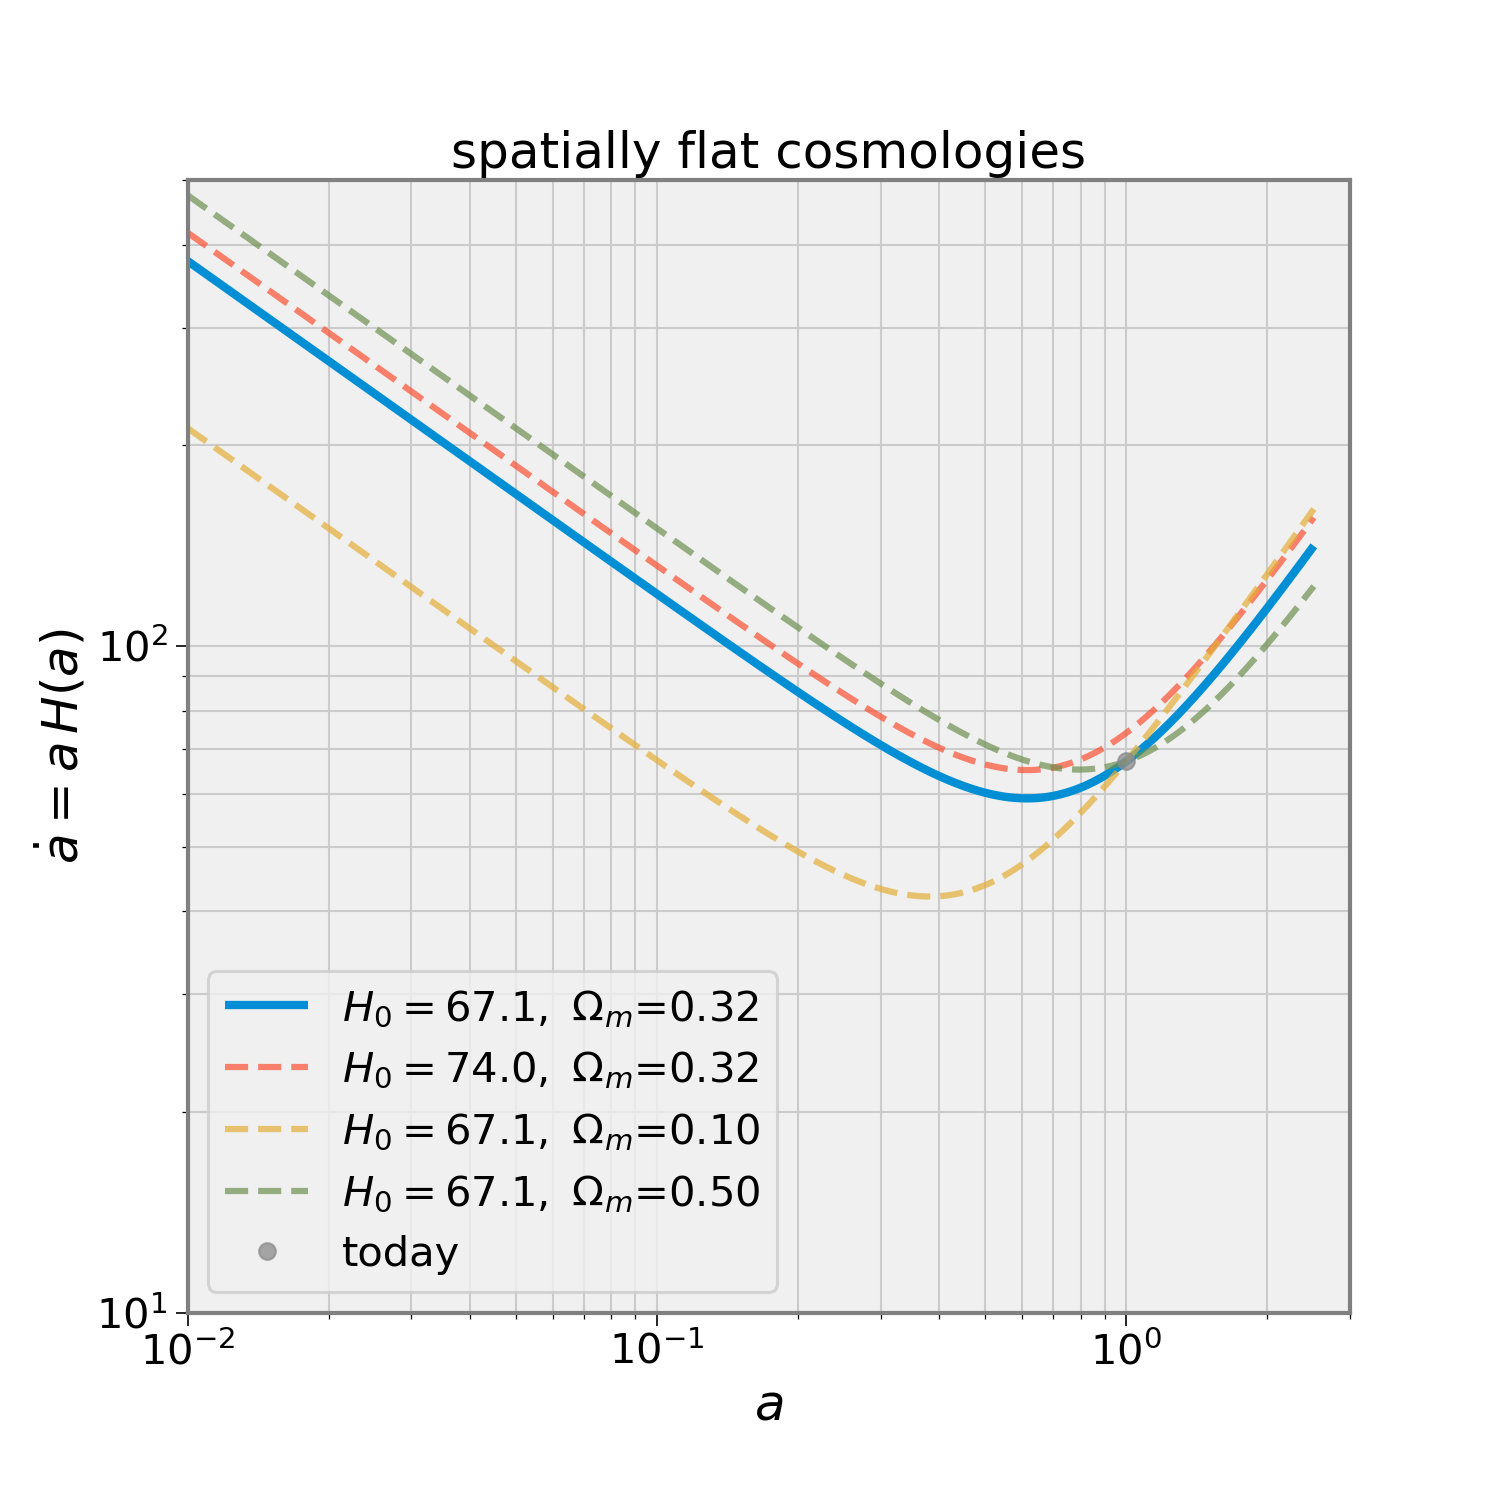
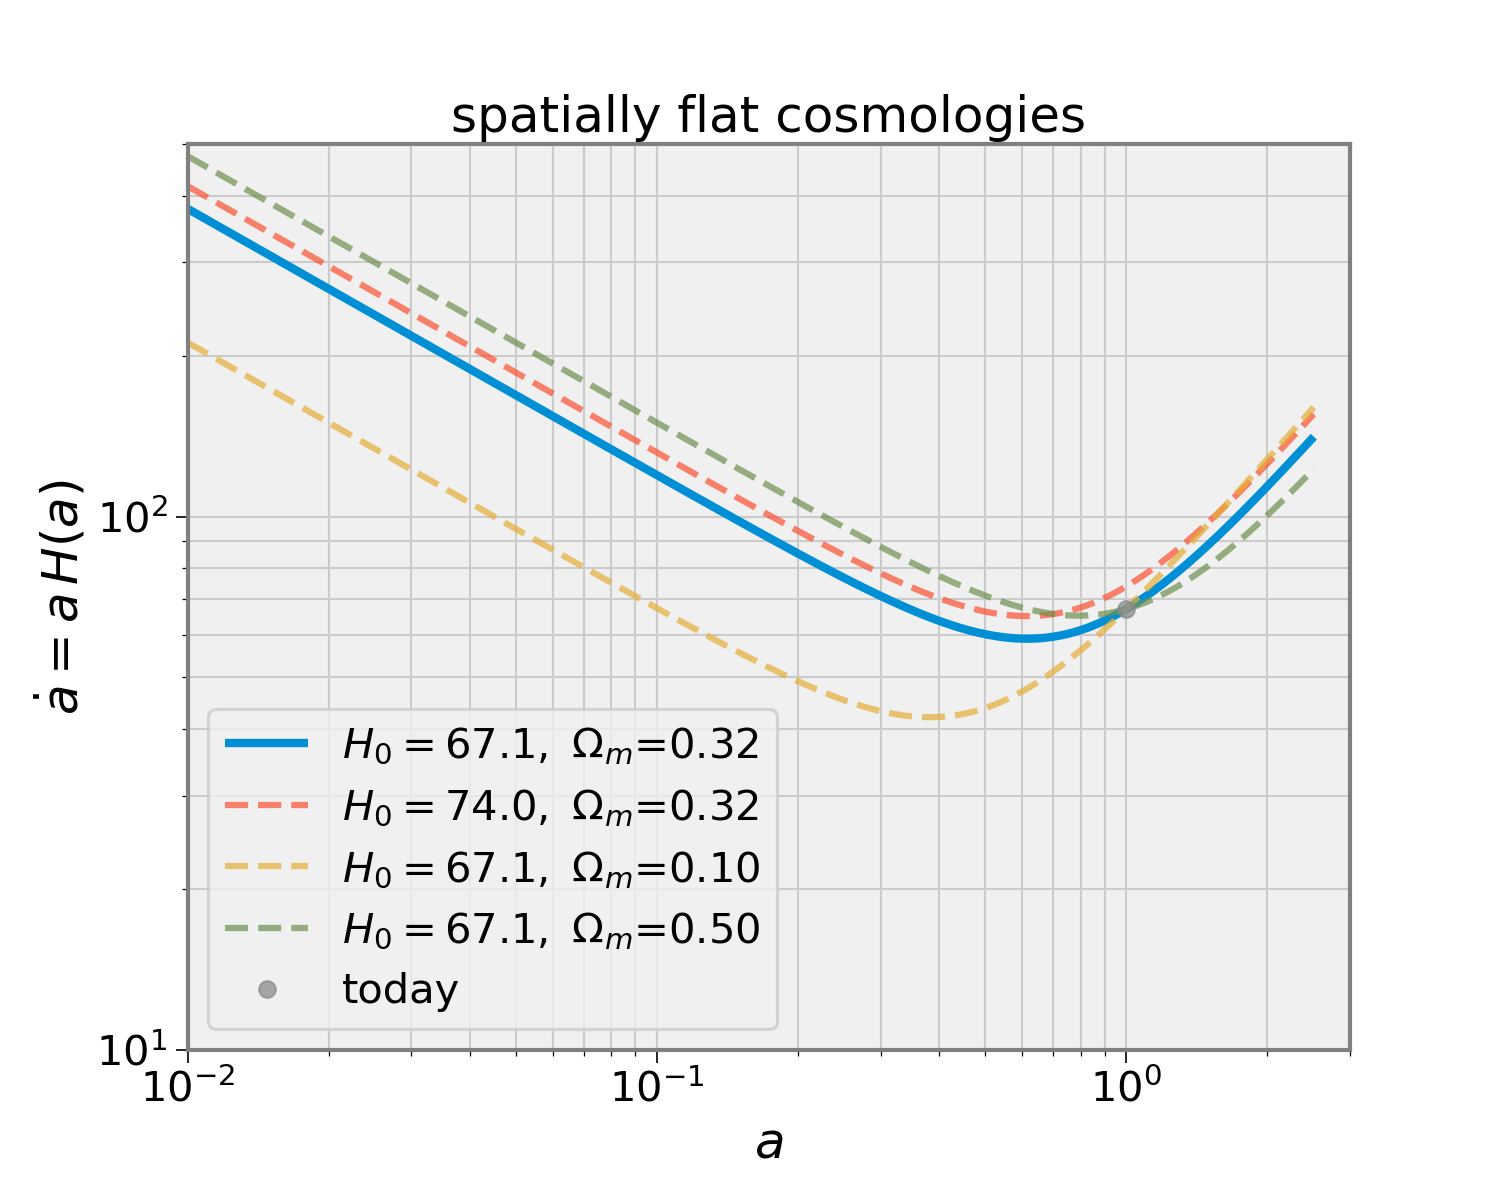
Friedmann update

diff --git a/docs/posts_code/FriedmannEasy.py b/docs/posts_code/FriedmannEasy.py
@@ -1,5 +1,10 @@
 # %% 
-from definitions import *
+import numpy as np
+from scipy.integrate import odeint
+import matplotlib.pyplot as plt
+plt.style.use('./Modified5308.mplstyle') 
+figtransparent = 0
+
 h = 0.7
 Mpc = 3.086e24
 H100 = 100*1e5/Mpc
@@ -10,7 +15,7 @@ rhocrit = 3*H0**2/(8*np.pi*G)
 k = 0
 R_c = 10e3 * Mpc  # 10 Gpc
 
-class cosmo:
+class flat_cosmo:
     """Keep parameters for a flat Universe
     H0 = Hubble constant today: in km/s/Mpc
     Om0: Omega_matter at current time
@@ -21,10 +26,6 @@ class cosmo:
         self.Om0 = params['Om0']
         self.OL0 = 1.0 - self.Om0
         
-#        print ('H0', self.H0)
-#        print ('Om0', self.Om0)
-#        print ('OL0', self.OL0)
-        
     def hubble(self,a):
         return np.sqrt(self.H0**2*(self.Om0/a**3+(1-self.Om0)))
 
@@ -33,13 +34,15 @@ class cosmo:
 
 params = {'H0':67.11, 'Om0':0.3175}
 
-u1 = cosmo( {'H0':67.11, 'Om0':0.3175})
-u2 = cosmo( {'H0':74, 'Om0':0.3175})
-u3 = cosmo( {'H0':67.11, 'Om0':0.1})
-u4 = cosmo( {'H0':67.11, 'Om0':0.5})
-universe = cosmo(params)
+u1 = flat_cosmo( {'H0':67.11, 'Om0':0.3175})
+u2 = flat_cosmo( {'H0':74, 'Om0':0.3175})
+u3 = flat_cosmo( {'H0':67.11, 'Om0':0.1})
+u4 = flat_cosmo( {'H0':67.11, 'Om0':0.5})
+universe = flat_cosmo(params)
 
 ar = np.logspace(-2,.4,400)
+
+plt.figure(figsize=(10,8))
 plt.loglog(ar,ar*u1.hubble(ar), label=r"$H_0={:.1f},\ \Omega_m$={:.2f}".format(u1.H0,u1.Om0),lw=4)
 plt.loglog(ar,ar*u2.hubble(ar), '--',label=r"$H_0={:.1f},\ \Omega_m$={:.2f}".format(u2.H0,u2.Om0),alpha=.7)
 plt.loglog(ar,ar*u3.hubble(ar), '--',label=r"$H_0={:.1f},\ \Omega_m$={:.2f}".format(u3.H0,u3.Om0),alpha=.7)
@@ -60,14 +63,13 @@ plt.savefig("../assets/Hubble-as-function-of-a.png", dpi=150,transparent=figtran
 #
 
 # %%
-from scipy.integrate import odeint
-
 def rhs(a,t,Om):
     return np.sqrt(Om/a+(1-Om)*a**2)
 a0 = [1] # at a=1 we want da/dt=1 we can later get units from H0.
 Om = 1
-t = np.linspace(0, 1.5, 19001)
+t = np.linspace(1e-6, 1.5, 19001)
 tm = -1*t
+
 sol = odeint(rhs, a0, t, args= (Om, ) )
 solb = odeint(rhs, a0, tm, args= (Om, ) )
 
@@ -101,7 +103,7 @@ plt.title("spatially flat cosmologies")
 
 plt.savefig("../assets/flat-a-of-t.png", dpi=150,transparent=figtransparent)
 # %%
-# Zoomes in version of the same plot from before
+# Zoomed-in version of the same plot from before
 plt.figure(figsize=(10,6))
 
 p1 = plt.plot(t, (odeint(rhs, a0, t , args=(u1.Om0, )))[:,0], label=r"$\Omega_m={:.2f}$".format(u1.Om0), alpha=.7)
@@ -120,9 +122,6 @@ plt.plot(tm,    (odeint(rhs, a0, tm, args=(1, )))[:,0], alpha=.7, color=p2[0].ge
 plt.plot([-2/3,-2/3],[1e-5,1e4],'--',lw=2,alpha=.5 ,color="grey",label=r"$\Omega_m=1$")
 plt.plot([0],[1],'o',ms=8,alpha=.75, color="grey", label="today")
 
-
-#plt.xscale("log")
-#plt.yscale("log")
 plt.xlim(-.66,.1)
 plt.ylim(.3,1.1)
 plt.xlabel(r"$(t-t_{today}) H_0$")

diff --git a/docs/posts_code/definitions.py b/docs/posts_code/definitions.py
@@ -1,13 +1,13 @@
 #%%
 from scipy import stats
 import numpy as np
+import scipy.spatial as sptl
+import scipy.integrate
 import matplotlib
 import matplotlib.pyplot as plt
 plt.style.use('./Modified5308.mplstyle') 
 figtransparent = 0
 
-import scipy.spatial as sptl
-import scipy.integrate
 
 # %%
 def peaked(y):
